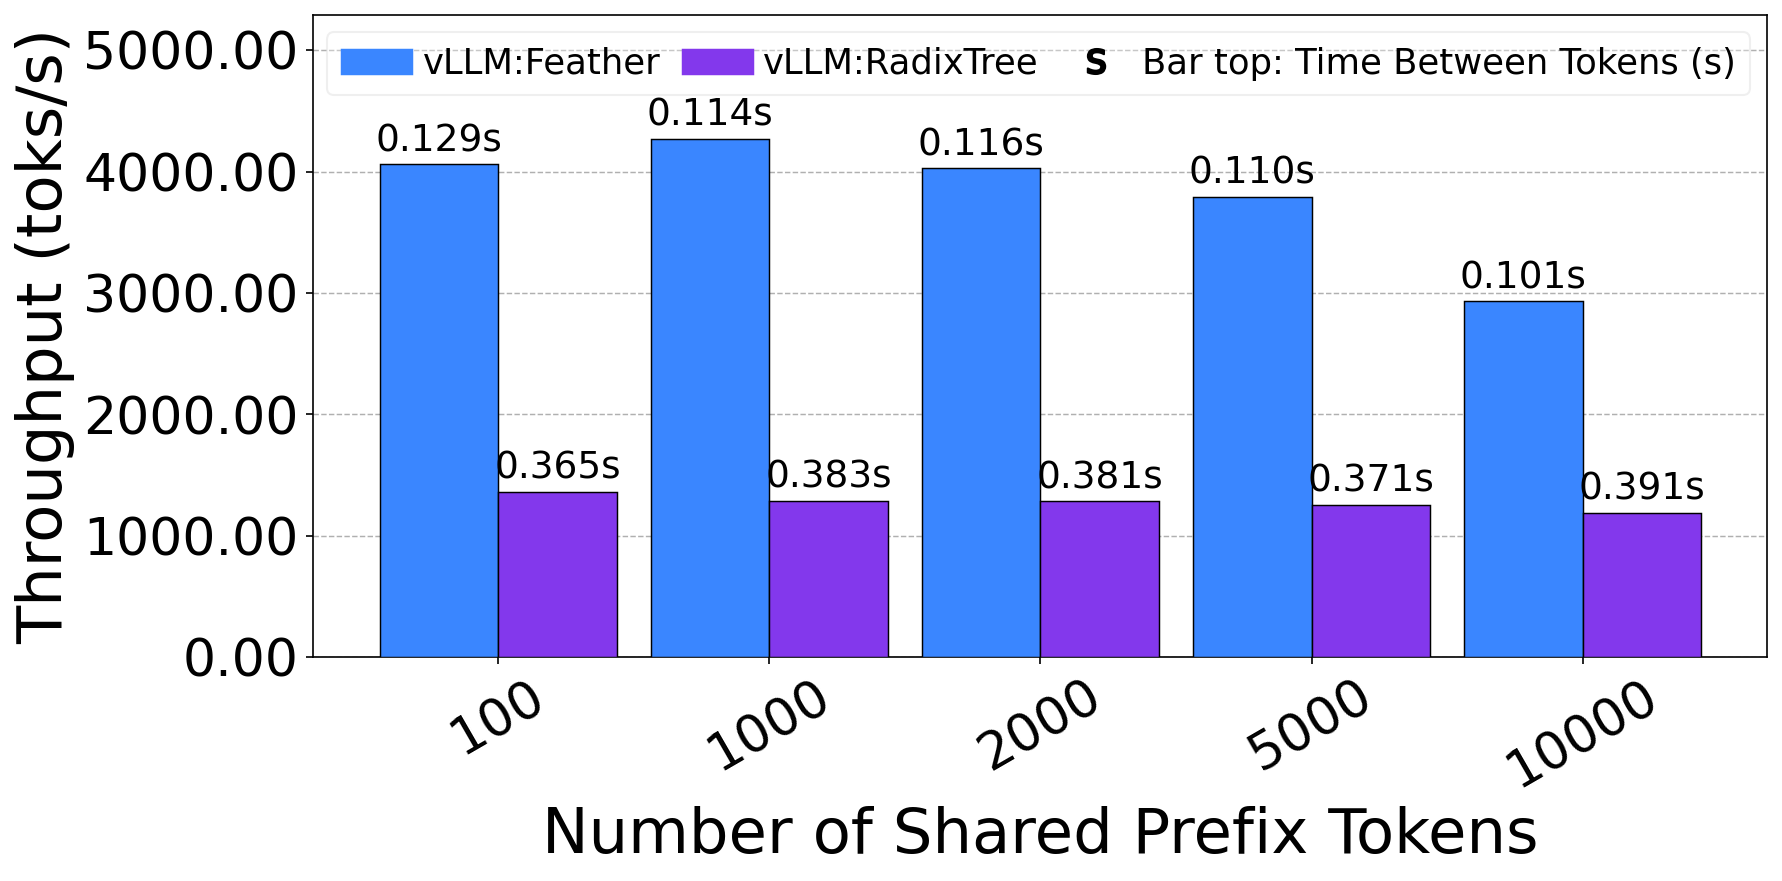
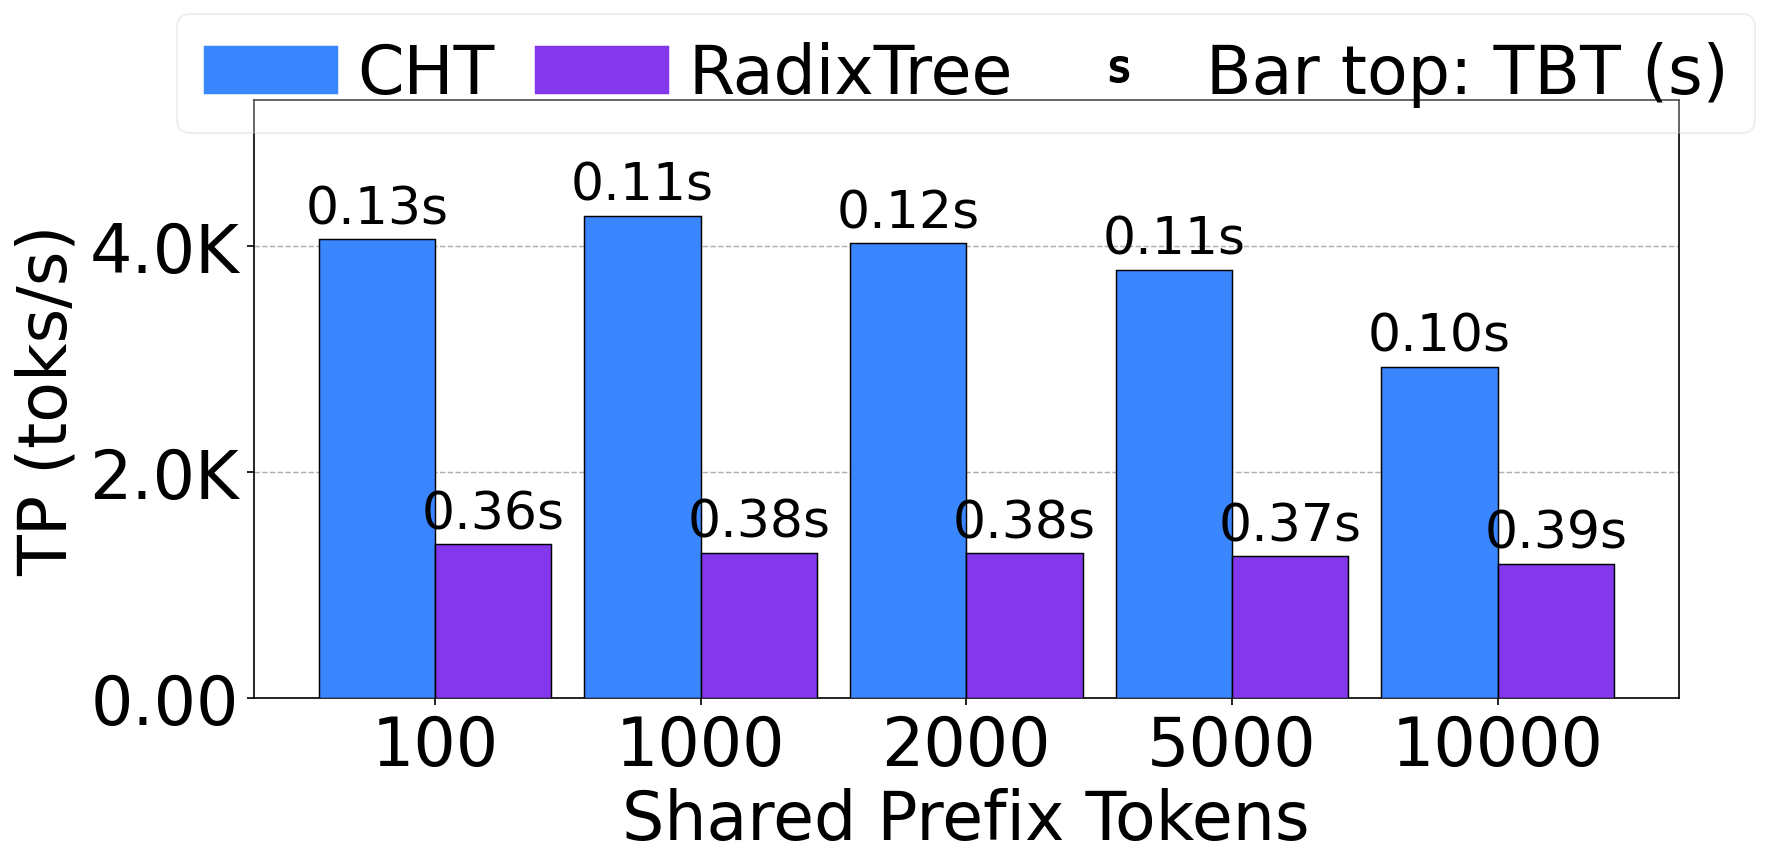
cht vs radix tree

diff --git a/code/vllm/sys_prompt_tokens_logs_ablation_radix_vs_cht/plot.py b/code/vllm/sys_prompt_tokens_logs_ablation_radix_vs_cht/plot.py
@@ -97,8 +97,8 @@ for path in log_files:
     if engine == "sglang":
         engine = "SGLang"
 
-    display_policy = "Feather" if policy == "chunked_hash_tree_heuristic" else "RadixTree"
-    label = f"{engine}:{display_policy}"
+    display_policy = "CHT" if policy == "chunked_hash_tree_heuristic" else "RadixTree"
+    label = f"{display_policy}"
 
     avg_batch, avg_diff, throughput = parse_log(path)
 
@@ -118,7 +118,7 @@ for path in log_files:
 # ── Bar chart styling ────────────────────────────────────────────────────────
 PALETTE = {
     "RadixTree": "#8338EC",
-    "Feather":   "#3A86FF",
+    "CHT":   "#3A86FF",
 }
 
 token_sets = [set(data[label].keys()) for label in data]
@@ -140,8 +140,7 @@ def make_bar_plot(metric_key, ylabel, outpath):
     x_centers = np.arange(n_groups) * group_width
 
     for i, label in enumerate(labels_sorted):
-        policy_name = label.split(":")[1]  # e.g. "RadixTree" or "Feather"
-        color = PALETTE.get(policy_name, "#888888")
+        color = PALETTE.get(label, "#888888")
 
         ys = []
         tbt_vals = []
@@ -173,24 +172,26 @@ def make_bar_plot(metric_key, ylabel, outpath):
                 ax.text(
                     bar.get_x() + bar.get_width() / 2,
                     bar.get_height() + ax.get_ylim()[1] * 0.01,
-                    f"{tbt:.3f}s",
+                    f"{tbt:.2f}s",
                     ha="center",
                     va="bottom",
-                    fontsize=18,
+                    fontsize=24,
                     color="black",
                 )
 
-    ax.set_xlabel("Number of Shared Prefix Tokens", fontsize=30)
-    ax.set_ylabel(ylabel, fontsize=30)
+    ax.set_xlabel("Shared Prefix Tokens", fontsize=32)
+    ax.set_ylabel(ylabel, fontsize=32)
     ax.set_xticks(x_centers)
-    ax.set_xticklabels([str(t) for t in all_tokens], rotation=30, fontsize=25)
-    ax.tick_params(axis="both", labelsize=25)
-    ax.yaxis.set_major_formatter(ticker.FormatStrFormatter('%.2f'))
+    ax.set_xticklabels([str(t) for t in all_tokens], rotation=0, fontsize=32)
+    ax.tick_params(axis="both", labelsize=32)
+    ax.yaxis.set_major_formatter(
+        ticker.FuncFormatter(lambda x, _: f"{x/1000:.1f}K" if x >= 1000 else f"{x:.2f}")
+    )
 
     # Build legend: bar colours + TBT annotation marker
     bar_handles = [
         plt.Rectangle((0, 0), 1, 1,
-                       color=PALETTE.get(lbl.split(":")[1], "#888888"),
+                       color=PALETTE.get(lbl, "#888888"),
                        edgecolor="black", linewidth=0.7,
                        label=lbl)
         for lbl in labels_sorted
@@ -210,17 +211,19 @@ def make_bar_plot(metric_key, ylabel, outpath):
         linewidth=0,
         marker=r"$\mathtt{s}$",
         markersize=12,
-        label="Bar top: Time Between Tokens (s)",
+        label="Bar top: TBT (s)",
     )
     ax.legend(
         handles=bar_handles + [tbt_proxy],
-        fontsize=17,
+        fontsize=32,
         framealpha=0.3,
-        ncol=3,  # or 3 depending on how many entries you have
-        columnspacing=0.6,   # horizontal spacing between columns
-        handletextpad=0.3,   # space between marker and text
-        labelspacing=0.3,    # vertical spacing between rows
-        borderpad=0.4        # padding inside the legend box
+        ncol=3,
+        columnspacing=0.6,
+        handletextpad=0.3,
+        labelspacing=0.3,
+        borderpad=0.4,
+        loc="upper center",
+        bbox_to_anchor=(0.5, 1.2),
     )
 
     ax.grid(True, axis="y", linewidth=0.7, linestyle="--", zorder=0)
@@ -241,8 +244,6 @@ os.makedirs(OUT, exist_ok=True)
 
 make_bar_plot(
     "throughput",
-    "Throughput (toks/s)",
+    "TP (toks/s)",
     os.path.join(OUT, "throughput_vs_sys_prompt_tokens_bar.png")
 )
-
-print("\nDone! Plots written to:", OUT)
